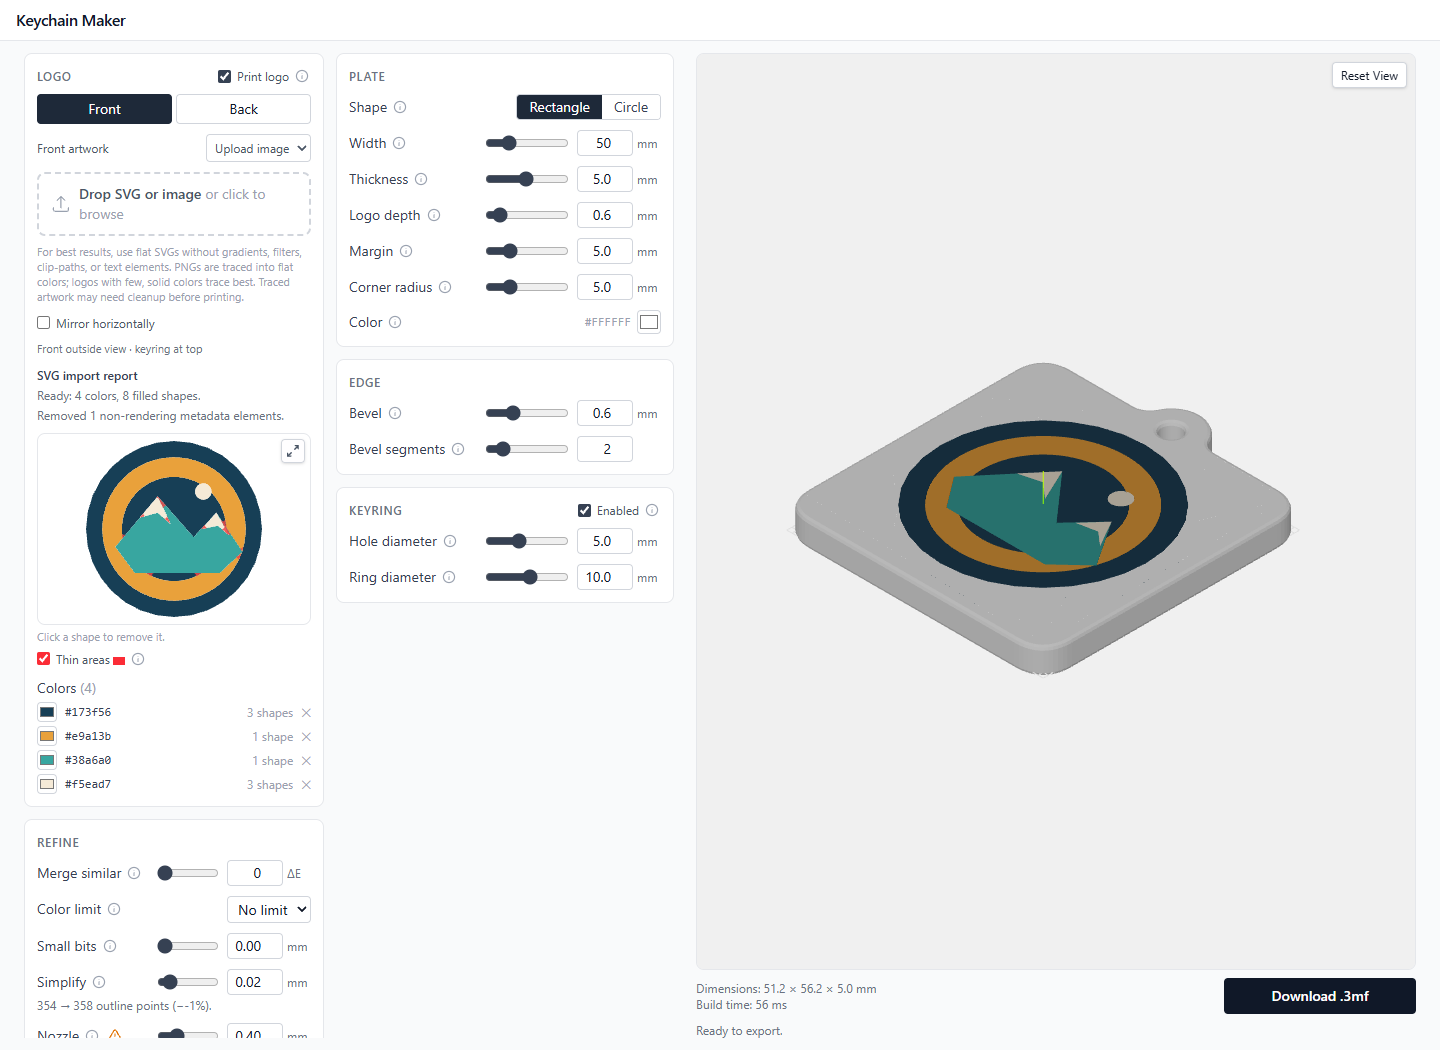
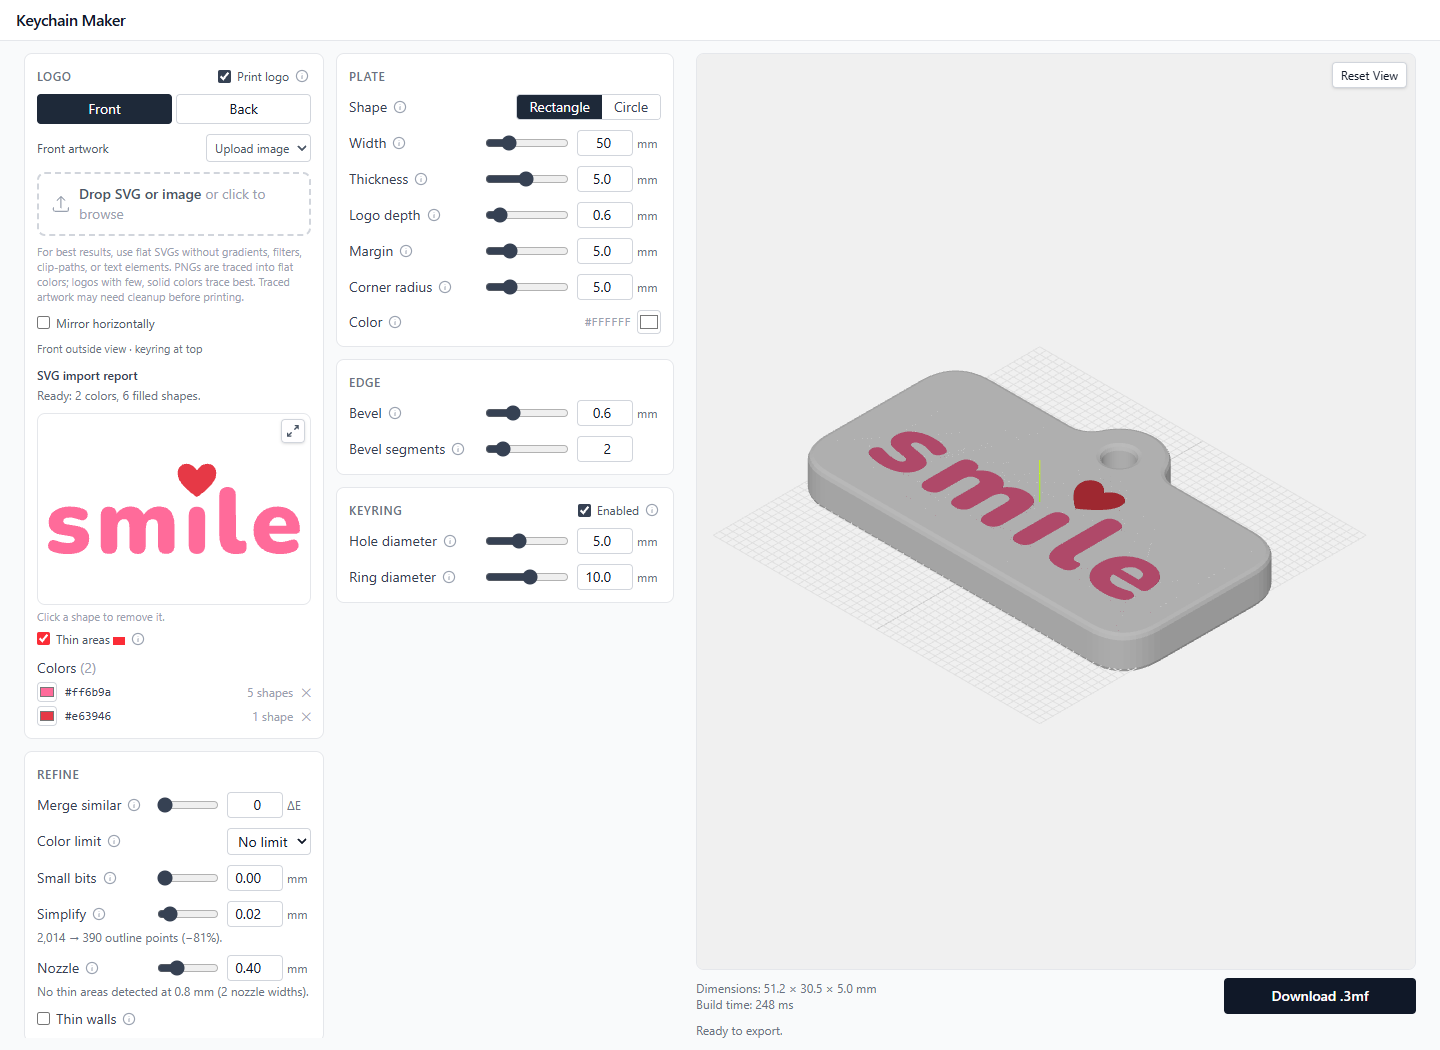
fix: sign the outline points change when simplifying adds points
Simplify inserts the T-junction vertices that keep shared borders sealed,
so near-zero tolerances can end with more points than they started with.
The note hard-coded a minus and showed "(−−1%)"; it now shows "+1%" and
the Simplify tooltip explains the increase.

Also redraw the favicon as a tag hanging from a split ring (the old one
read as a bag) and retake the README screenshot with smile-heart.svg.

diff --git a/src/components/ControlPanel.vue b/src/components/ControlPanel.vue
@@ -10,6 +10,7 @@ import { DEFAULT_REFINEMENTS, type BasePlateShape, type ColorGroup, type Keychai
 import type { ConfigAdjustment, ConfigMessage } from '../utils/configConstraints'
 import type { ThinFeatures } from '../utils/thinFeatures'
 import { printabilityWarnings, type TinyIslands } from '../utils/printability'
+import { outlinePointsNote } from '../utils/simplify'
 import type { SvgImportReport } from '../utils/svgImport'
 
 const props = defineProps<{
@@ -72,13 +73,7 @@ const refined = computed(() => {
     || r.simplifyTolerance !== DEFAULT_REFINEMENTS.simplifyTolerance
 })
 
-const pointsNote = computed(() => {
-  const { before, after } = props.outlinePoints
-  if (before === 0) return ''
-  const fmt = (n: number) => n.toLocaleString('en-US')
-  if (after === before) return `${fmt(before)} outline points.`
-  return `${fmt(before)} → ${fmt(after)} outline points (−${Math.round((1 - after / before) * 100)}%).`
-})
+const pointsNote = computed(() => outlinePointsNote(props.outlinePoints))
 
 /** Undoes every refinement; the nozzle and thin walls are printer settings, so they stay. */
 function resetRefinements() {
@@ -102,7 +97,8 @@ const INFO = {
     + 'Measured as color difference (ΔE): about 2 is barely visible, 10 or more is clearly different. 0 = off.',
   colorLimit: 'Merges the most similar colors until at most this many remain, so the logo fits the filaments you have.',
   simplify: 'Drops outline points while keeping every edge within this distance of the original. '
-    + 'Fewer points build faster; the default is far finer than a printer can resolve.',
+    + 'Fewer points build faster; the default is far finer than a printer can resolve. '
+    + 'Borders shared by two colors may gain a few points, so the colors stay sealed.',
   nozzle: 'Your printer’s nozzle diameter. Only used to find logo details too thin to print; it doesn’t change the model.',
   thinWalls: 'Turn on if your slicer prints walls a single line wide (“Detect thin walls” or similar). '
     + 'Details then print down to 1 nozzle width instead of 2.',

diff --git a/tests/unit/simplify.test.ts b/tests/unit/simplify.test.ts
@@ -2,7 +2,7 @@ import { expect, test } from 'bun:test'
 import * as THREE from 'three'
 import polygonClipping, { type MultiPolygon, type Ring } from 'polygon-clipping'
 import type { ColorGroup } from '../../src/types/keychain'
-import { simplifyGroups } from '../../src/utils/simplify'
+import { outlinePointsNote, simplifyGroups } from '../../src/utils/simplify'
 import { logoOutline, polygonToShape, shapeToPolygon } from '../../src/utils/svgToShapes'
 import { shapeArea } from '../../src/utils/refine'
 
@@ -156,4 +156,13 @@ test('returns the previous array when the same points survive', () => {
   // Within the circle's sampling, a hair more tolerance drops nothing new.
   expect(simplifyGroups(groups, 0.05 + 1e-12).groups).toBe(first.groups)
   expect(simplifyGroups(groups, 0.5).groups).not.toBe(first.groups)
+})
+
+test('the outline points note signs the change in either direction', () => {
+  expect(outlinePointsNote({ before: 0, after: 0 })).toBe('')
+  expect(outlinePointsNote({ before: 354, after: 354 })).toBe('354 outline points.')
+  expect(outlinePointsNote({ before: 1279, after: 236 })).toBe('1,279 → 236 outline points (−82%).')
+  // Sealing shared borders can add T-junction vertices at tiny tolerances.
+  expect(outlinePointsNote({ before: 354, after: 358 })).toBe('354 → 358 outline points (+1%).')
+  expect(outlinePointsNote({ before: 1000, after: 1002 })).toBe('1,000 → 1,002 outline points.')
 })

diff --git a/src/utils/simplify.ts b/src/utils/simplify.ts
@@ -39,6 +39,20 @@ export interface SimplifyResult {
   after: number
 }
 
+/**
+ * "1,279 → 236 outline points (−82%)." The count can rise: shared borders gain
+ * the T-junction vertices that keep neighbors sealed, so near-zero tolerances
+ * on logos with many meeting colors may end up with more points than they had.
+ */
+export function outlinePointsNote({ before, after }: { before: number; after: number }): string {
+  if (before === 0) return ''
+  const fmt = (n: number) => n.toLocaleString('en-US')
+  if (after === before) return `${fmt(before)} outline points.`
+  const percent = Math.round(Math.abs(after - before) / before * 100)
+  const change = percent ? ` (${after < before ? '−' : '+'}${percent}%)` : ''
+  return `${fmt(before)} → ${fmt(after)} outline points${change}.`
+}
+
 const graphs = new WeakMap<ColorGroup[], Graph>()
 const lastResult = new WeakMap<ColorGroup[], { keep: Uint8Array; result: SimplifyResult }>()
 
